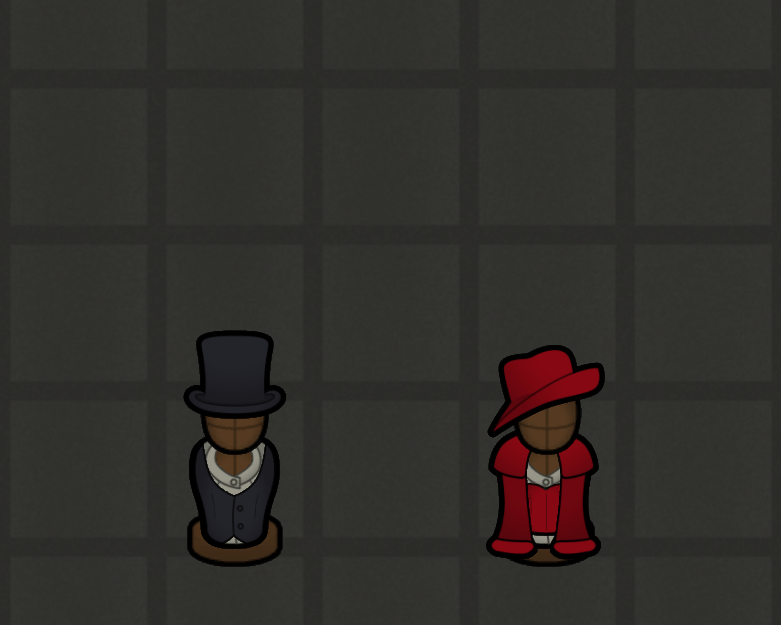
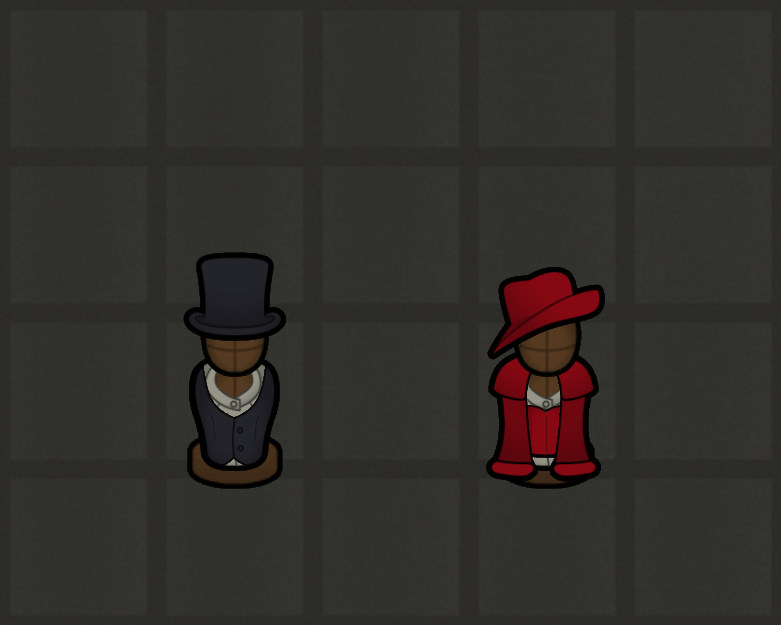
💄 Match the gallery pair to the re-framed window

Changed region(s): [[0.6146, 0.4256, 0.799, 0.912], [0.2151, 0.3952, 0.3688, 0.912]]

diff --git a/media/README.md b/media/README.md
@@ -443,7 +443,10 @@ palettegen diff + bayer and gifsicle lossy 60 identical; outputs land
 at the same budgets (flip 242 KB, static 308 KB) and About/Preview.png
 keeps its GIF89a bytes. Intermediates in
 `take1-jacketless/recenter-halfup/`; the 08-29 framing's candidates
-stay beside the masters for lineage.
+stay beside the masters for lineage. The GALLERY PAIR followed the
+same day (principal): media/gallery-wardrobe-before/after.png are the
+untitled crops of the NEW window, so every Workshop surface built on
+the pair scene shares one framing.
 
 ### cards/card-faq.png (2026-08-29)
 
